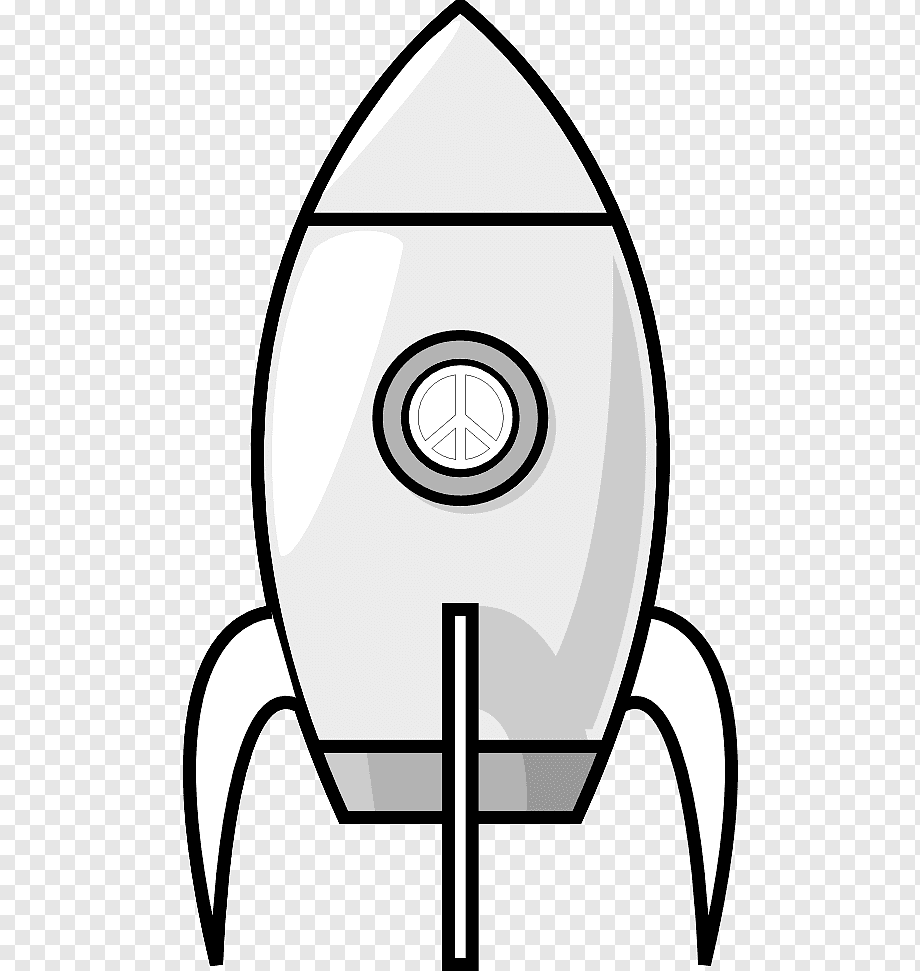
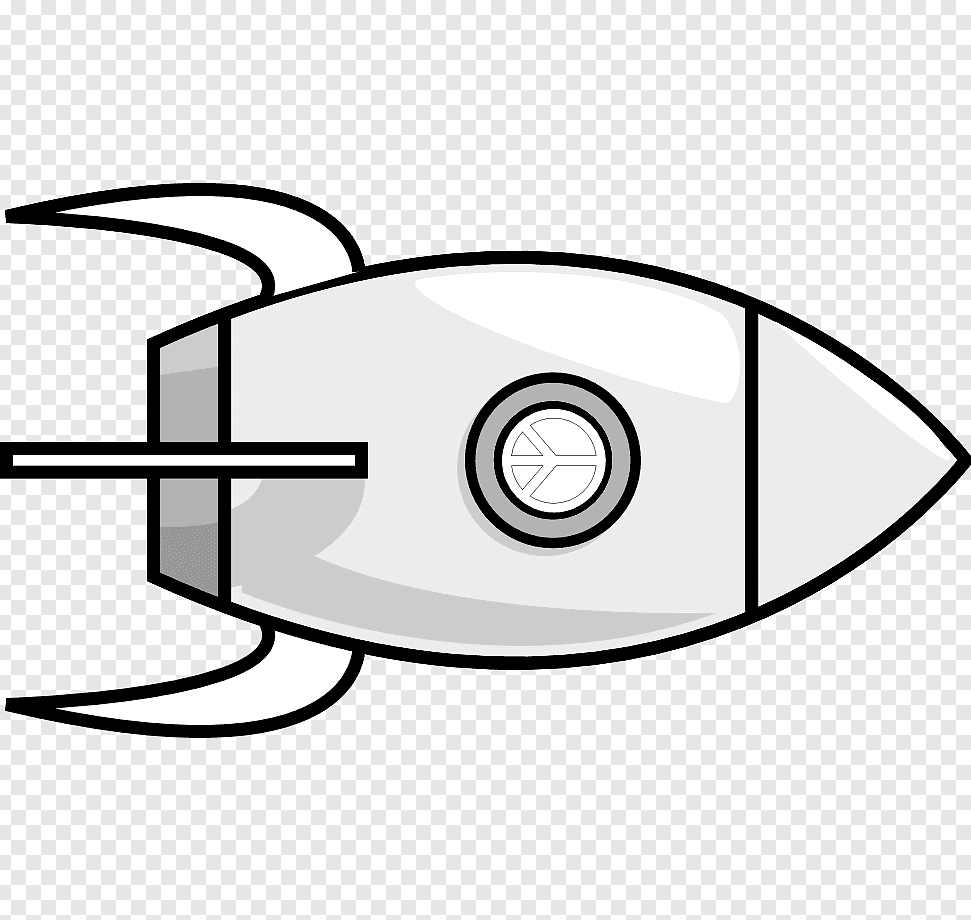
It it working somehow))) Showing planet and rocket

diff --git a/game_v1/game.cpp b/game_v1/game.cpp
@@ -1,0 +1,91 @@
+#include <SFML/Graphics.hpp>
+#include <iostream>
+#include<fstream>
+#include<vector>
+#include<string>
+#include"gravity_model.cpp"
+#include "GravityObjDrawer.cpp"
+
+using Planet = GravitatingObject;
+using namespace std;
+
+int main(int argc, char const *argv[])
+{
+	
+
+    sf::RenderWindow window(sf::VideoMode(1000,1000), "Hello From SFML");
+
+    window.setFramerateLimit(60); // call it once, after creating the window
+
+
+    GravitySolver gs; // Created the gravity modelling environment
+
+    sf::Texture playerTexture;
+    if (!playerTexture.loadFromFile("img/rocket_white.png"))
+    {
+        // error...
+    }
+    playerTexture.setSmooth(true);
+    sf::Sprite playerSprite;
+    playerSprite.setTexture(playerTexture);
+    playerSprite.setOrigin(playerSprite.getGlobalBounds().width/2, playerSprite.getGlobalBounds().height/2);
+    playerSprite.setScale(0.1, 0.1);
+
+    GravityObjDrawer drawer(gs, playerSprite, window);
+
+    sf::Sprite planetSprite;
+    sf::Texture planetTexture;
+    if (!planetTexture.loadFromFile("img/planet.png"))
+    {
+        // error...
+    }
+    planetSprite.setTexture(planetTexture);
+    planetSprite.setOrigin(planetSprite.getGlobalBounds().width/2, planetSprite.getGlobalBounds().height/2);
+    planetSprite.setScale(0.1, 0.1);
+
+	gs.player()->mouse_shift = {0, -1}; // Moved the mouse(engines started)
+	for(int i = 0; i < 3; ++i) gs.step();
+	gs.player()->mouse_shift = {0, 1}; // Changed direction(slowing down)
+	for(int i = 0; i < 2; ++i) gs.step();
+	gs.player()->mouse_shift = {-1, 0}; // Now, moving along the x axis
+	for(int i = 0; i < 5; ++i) gs.step(); // Accelerating
+	gs.player()->mouse_shift = {0, 0}; // Engines off
+	gs.AddFixedObject<Planet>(true, 250, 250, 1000); // Adding a planet
+    drawer.addObject(planetSprite);
+	gs.AddFixedObject<Planet>(true, 1250, 550, 5000); // And another one
+    // drawer.addObject(planetSprite);
+	gs.AddFixedObject<Planet>(true, 2000, 0, 3000);
+    // drawer.addObject(planetSprite);
+
+
+    while (window.isOpen())
+    {
+        sf::Event event;
+        while (window.pollEvent(event))
+        {
+            if(event.type == sf::Event::Closed){
+                window.close();
+            }
+        }
+
+        // get the local mouse position (relative to a window)
+        sf::Vector2i localPosition = sf::Mouse::getPosition(window); 
+        // std::cout << localPosition.x << " " << localPosition.y << std::endl;
+        vec<float> mouseVector({localPosition.x - playerSprite.getOrigin().x, localPosition.y - playerSprite.getOrigin().y});
+        float angle = atan2(mouseVector.y, mouseVector.x)*180/3.1415;
+        // cout << mouseVector.x << " " << mouseVector.y << " " << angle << endl;
+        drawer.setRocketRotation(angle);
+        gs.step();
+
+        window.clear();
+        drawer.draw();
+
+        // planetSprite.setPosition(100, 100);
+        // window.draw(planetSprite);
+
+        window.display();
+        
+    }
+
+    return 0;
+}

diff --git a/game_v1/GravityObjDrawer.cpp b/game_v1/GravityObjDrawer.cpp
@@ -1,0 +1,41 @@
+// #include "gravity_model.cpp"
+#include <SFML/Graphics.hpp>
+#include<vector>
+
+class GravityObjDrawer {
+    const GravitySolver& gs;
+    vector<sf::Sprite> object_sprites;
+    sf::RenderWindow& window;
+    const float scale = 1;
+   public:
+    GravityObjDrawer() = delete;
+
+    GravityObjDrawer(const GravitySolver& gs, sf::Sprite playerSprite, sf::RenderWindow& window) : gs(gs), window(window) {
+        object_sprites.push_back(playerSprite);
+
+        sf::Vector2u center(window.getSize().x/2,window.getSize().y/2);
+        object_sprites[0].setPosition(center.x, center.y);
+        
+    }
+
+    void draw() {
+        window.draw(object_sprites[0]);
+        // object_sprites[0].rotate(0.5);
+        for (int i = 1; i < object_sprites.size(); i++)
+        {
+            auto rel_coord = (gs.grav_objects[i]->r()-gs.grav_objects[0]->r())*scale;
+            if (2*rel_coord.x < window.getSize().x and 2*rel_coord.y < window.getSize().y) {
+                object_sprites[i].setPosition(object_sprites[0].getOrigin()+sf::Vector2f(rel_coord.x, rel_coord.y));
+                window.draw(object_sprites[i]);
+            }
+        }
+        
+    }
+    void setRocketRotation(float angle) {
+        object_sprites[0].setRotation(angle);
+    }
+    void addObject(sf::Sprite spr) {
+        object_sprites.push_back(spr);
+    }
+
+};

diff --git a/game_v1/vec.cpp b/game_v1/vec.cpp
@@ -1,7 +1,6 @@
 // A simple 2D-vector template for concise notation
 #include<iostream>
 #include<cmath>
-//#include"vec.h"
 
 template<typename T>
 class vec {
